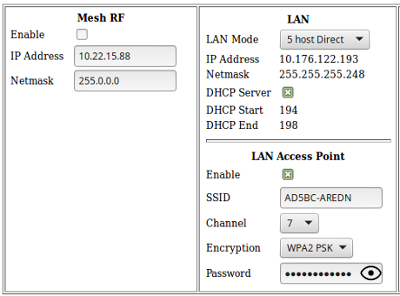
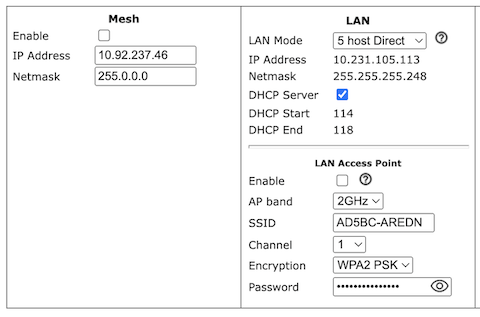
change Mesh RF to Mesh in text and screenshots (#307)

Changed region(s): [[0.0, 0.0, 1.0, 1.0]]

diff --git a/arednGettingStarted/advanced_config.rst b/arednGettingStarted/advanced_config.rst
@@ -36,10 +36,10 @@ You have already configured many of the basic settings, but there are several ad
 
 |
 
-Mesh RF Column
+Mesh Column
 ^^^^^^^^^^^^^^
 
-*Mesh RF* is the node's *radio* interface. The AREDN |trade| firmware has been designed to simplify the process of configuring networking interfaces. Network values are automatically calculated based on the unique :abbr:`MAC (Media Access Control)` addresses of your node. You may need to change the *Channel* and possibly the *Channel Width* parameters to match those of your local AREDN |trade| mesh, as explained previously in the **Basic Radio Setup** section. Normally you will not need to change the other network settings on this page, so keep these values unless you fully understand how the mesh works and why the defaults may not be suitable for your situation.
+**Mesh** is the node's *radio* interface. The AREDN |trade| firmware has been designed to simplify the process of configuring networking interfaces. Network values are automatically calculated based on the unique :abbr:`MAC (Media Access Control)` addresses of your node. You may need to change the *Channel* and possibly the *Channel Width* parameters to match those of your local AREDN |trade| mesh, as explained previously in the **Basic Radio Setup** section. Normally you will not need to change the other network settings on this page, so keep these values unless you fully understand how the mesh works and why the defaults may not be suitable for your situation.
 
 Channel Width Setting
   AREDN |trade| devices have a choice of using 20 MHz, 10 MHz, or 5 MHz channel widths. As a general rule, a larger channel width will allow more data to be transferred, but it can only do this over shorter distances (as will be illustrated in the following section). One suggestion is to start with the largest channel width that yields a *Signal to Noise Ratio* (SNR) of at least 15 dB.
@@ -82,7 +82,7 @@ Configuring LQM Settings
     :alt: LQM Basic Settings
     :align: right
 
-  When *Link Quality Manager* is enabled, the **Basic Setup** page will show a slightly different group of settings for *Power & Link Quality* under the **Mesh RF** column.
+  When *Link Quality Manager* is enabled, the **Basic Setup** page will show a slightly different group of settings for *Power & Link Quality* under the **Mesh** column.
 
   Max Distance
     The maximum distance between nodes at which you can expect to achieve a usable radio link. The default value is 50 miles / 80 kilometers, but you can adjust this setting if your node is only able to maintain a usable radio link with closer nodes. Local conditions may dictate a shorter distance based, for example, on dense tree cover or other terrain features which impact line of sight communication. You can lower this value if you want to limit your node to linking only with nearby nodes.
@@ -95,8 +95,8 @@ Configuring LQM Settings
 
 The **Power & Distance** settings can be adjusted and applied without saving changes or rebooting your node. However, they will return to their original values after a reboot unless you click *Save Changes*.
 
-Enable/Disable Mesh RF
-  You can disable your node's radio interface by deselecting the *Enable* checkbox, saving your changes, and rebooting the node. With the Mesh RF interface disabled the *Power & Distance* settings no longer apply and will be hidden. Since your node now has an unused RF interface, you will notice that a new section appears which allows you to use the node's radio as an FCC Part 15 *LAN Access Point*. You can enable or disable the LAN AP using the *Enable* checkbox. See the details below for configuring the LAN Access Point.
+Enable/Disable Mesh
+  You can disable your node's radio interface by deselecting the *Enable* checkbox, saving your changes, and rebooting the node. With the Mesh interface disabled the *Power & Distance* settings no longer apply and will be hidden. Since your node now has an unused RF interface, you will notice that a new section appears which allows you to use the node's radio as an FCC Part 15 *LAN Access Point*. You can enable or disable the LAN AP using the *Enable* checkbox. See the details below for configuring the LAN Access Point.
 
 .. image:: _images/advConfig-lanAP.png
    :alt: LAN AP Settings
@@ -113,15 +113,15 @@ The default mode is ``5 Host Direct``. In this mode every host on the LAN has di
 
 The mesh address space is automatically managed, so you cannot configure the LAN network settings in *Direct* mode. The only configurable option available in *Direct* mode is the size of the LAN subnet which can accommodate either 1, 5, 13, or 29 LAN hosts. A one host subnet can be used for either a single server or a separate network router using its own NAT which is capable of more advanced routing functions than those available on a mesh node.
 
-It is important not to use a subnet larger than is necessary because the chance of an IP address conflict on the mesh increases with the size of the subnet. The LAN subnet parameters are automatically calculated and depend on the IP address of the *Mesh RF* interface. If a conflict does occur it can be fixed by changing the *Mesh RF* IP address.
+It is important not to use a subnet larger than is necessary because the chance of an IP address conflict on the mesh increases with the size of the subnet. The LAN subnet parameters are automatically calculated and depend on the IP address of the *Mesh* interface. If a conflict does occur it can be fixed by changing the *Mesh* IP address.
 
-The other LAN Mode is ``NAT``, and in this mode the LAN is isolated from the mesh. All outgoing traffic has its source address modified to be the *Mesh RF* IP address of the node. This is the same way that most home routers use an Internet connection, and all services provided by computers on the LAN can only be accessed through port forwarding rules. A single :abbr:`DMZ (DeMilitarized Zone)` server can be used to accept all incoming traffic that is not already handled by other rules or by the node itself.
+The other LAN Mode is ``NAT``, and in this mode the LAN is isolated from the mesh. All outgoing traffic has its source address modified to be the *Mesh* IP address of the node. This is the same way that most home routers use an Internet connection, and all services provided by computers on the LAN can only be accessed through port forwarding rules. A single :abbr:`DMZ (DeMilitarized Zone)` server can be used to accept all incoming traffic that is not already handled by other rules or by the node itself.
 
 By default each node runs a :abbr:`DHCP (Dynamic Host Control Protocol)` server for its LAN interface, which lets the node assign IP addresses automatically for devices connected to the node's local area network. The last octet of the start/end range for host IP addresses is shown in the LAN column. If you choose to disable the DHCP server, you must manually configure the host IP addresses to be within the LAN network range. There should be only one DHCP server for each IP address scope or range, so you may need to disable your node's DHCP server if there is already another device providing DHCP services on your node's local area network. Click this link for additional information on `Dynamic Host Control Protocol <https://en.wikipedia.org/wiki/Dynamic_Host_Configuration_Protocol>`_.
 
 When you connect a device to your node's LAN, not only should it have an IP address in the LAN IP address range, but it is best practice for LAN devices to obtain their DNS Server information *automatically* from the node. Be aware that if a LAN device does not use the DNS Server entry provided by the node to which it is connected, then that device will be unable to resolve hostnames on the mesh network. Also, hard-coding a device's DNS Server entry with the mesh node's IP address could result in unexpected failures if that device is moved to another mesh node or network.
 
-If you enabled the **LAN Access Point** feature mentioned previously, edit the access point's SSID, channel, encryption method, and password. Select an AP channel that is within the range supported by your WiFi client devices. Click *Save Changes* to write your information to the node's configuration, and a node reboot will also be required. Now wireless devices can connect to your node's LAN wirelessly, and their DHCP IP address will be assigned by the node's LAN DHCP server. If your node hardware has more than one unused radio, for example the *Mikrotik hAP ac* family with both 2.4 and 5.8 GHz radios in a single unit, the *LAN Access Point* section will always be visible whether or not your *Mesh RF* interface is enabled.
+If you enabled the **LAN Access Point** feature mentioned previously, edit the access point's SSID, channel, encryption method, and password. Select an AP channel that is within the range supported by your WiFi client devices. Click *Save Changes* to write your information to the node's configuration, and a node reboot will also be required. Now wireless devices can connect to your node's LAN wirelessly, and their DHCP IP address will be assigned by the node's LAN DHCP server. If your node hardware has more than one unused radio, for example the *Mikrotik hAP ac* family with both 2.4 and 5.8 GHz radios in a single unit, the *LAN Access Point* section will always be visible whether or not your *Mesh* interface is enabled.
 
 WAN Column
 ^^^^^^^^^^
@@ -137,7 +137,7 @@ If you are not going to use the WAN interface on your node, you can select *disa
 .. note:: The *Advanced WAN Access* settings have been moved to the **Advanced Configuration** display.
 
 WAN WiFi Client
-  As mentioned above in the *Mesh RF* section, if your node has a radio on which you have *disabled* Mesh RF and you are not using it as a LAN AP, you can enable this available radio as a WAN interface by checking the **WAN Wifi Client** checkbox. Enter the SSID and authentication string for the wifi AP that you want to connect through for Internet access.
+  As mentioned above in the *Mesh* section, if your node has a radio on which you have *disabled* Mesh and you are not using it as a LAN AP, you can enable this available radio as a WAN interface by checking the **WAN Wifi Client** checkbox. Enter the SSID and authentication string for the wifi AP that you want to connect through for Internet access.
 
   The mesh node uses "WPA2 PSK" encryption to connect to the wifi AP. The password length must be between zero and 64 characters. If the key length is 64, it is treated as hex encoded. If the length is 0, then no encryption will be used to connect to an open AP. A single quote character must not be used in the passphrase.
 
@@ -249,7 +249,7 @@ NAT Mode Operation
 
 |
 
-If you are using ``NAT`` for your LAN mode, then hosts on the LAN are isolated from both the Wifi and WAN interfaces by a firewall. This makes them inaccessible from either of these interfaces unless Port Forwarding is configured. In this mode all outgoing LAN traffic has its source address modified to be the Mesh RF IP address of the node. This is the same way that most home routers use an ISP Internet connection.
+If you are using ``NAT`` for your LAN mode, then hosts on the LAN are isolated from both the Wifi and WAN interfaces by a firewall. This makes them inaccessible from either of these interfaces unless Port Forwarding is configured. In this mode all outgoing LAN traffic has its source address modified to be the Mesh IP address of the node. This is the same way that most home routers use an ISP Internet connection.
 
 Port Forwarding
   Port forwarding rules can redirect inbound connections from the Wifi, WAN, or both interfaces and forward them to an IP address and port on the LAN. The destination port need not be the same unless you are forwarding a range of ports as explained below.
@@ -437,7 +437,7 @@ Link Quality Manager (LQM) Settings
 
 |
 
-The basic LQM settings were described above under the **Mesh RF Column**, but additional LQM settings are also available here in the **Advanced Configuration** section.
+The basic LQM settings were described above under the **Mesh Column**, but additional LQM settings are also available here in the **Advanced Configuration** section.
 
 Enable
   Enable or disable the LQM feature in its entirety.
@@ -481,7 +481,7 @@ WAN Settings
 Several WAN access settings can be adjusted in this section. It is recommended that these settings be left at their default values, but specific use cases may require you to change them.
 
 Allow MESH nodes to use my WAN
-  The default value is ``OFF`` and it is recommended that you use this default unless there is a special reason to enable it. Setting the value to ``ON`` will allow this node to route traffic from its MESH RF interface to/from your WAN interface. Since the WAN interface typically provides a gateway to the Internet, it is not desirable to route Internet traffic over your Mesh RF interface. AREDN |trade| is an FCC Part 97 amateur radio network, so be sure that any traffic which will be sent over the radio complies with FCC Part 97 rules. If you want local devices to have wireless Internet access, consider using an FCC Part 15 access point instead of your node's WAN gateway.
+  The default value is ``OFF`` and it is recommended that you use this default unless there is a special reason to enable it. Setting the value to ``ON`` will allow this node to route traffic from its Mesh interface to/from your WAN interface. Since the WAN interface typically provides a gateway to the Internet, it is not desirable to route Internet traffic over your Mesh interface. AREDN |trade| is an FCC Part 97 amateur radio network, so be sure that any traffic which will be sent over the radio complies with FCC Part 97 rules. If you want local devices to have wireless Internet access, consider using an FCC Part 15 access point instead of your node's WAN gateway.
 
   In older firmware releases there was a checkbox on the *Basic Setup* display for this setting. In the past if you checked "Allow others to use my WAN" then here is what your slider would look like in the current firmware:
 
@@ -546,7 +546,7 @@ Tunnel Weight
   This specifies the OLSR route cost of using a tunnel, with the default value set to ``1``. The higher the route cost weight, the less likely a tunnel will be chosen for routing traffic.
 
 Tunnel WAN Only Setting
-  This setting is enabled by default and it prevents tunnel traffic from being routed over the Mesh RF network. It limits tunnels to using the WAN interface, which is typically the intended route. If in your situation you need tunnel traffic to be routed over RF to a node with WAN access, then you can disable this setting to allow that traffic to pass.
+  This setting is enabled by default and it prevents tunnel traffic from being routed over the Mesh network. It limits tunnels to using the WAN interface, which is typically the intended route. If in your situation you need tunnel traffic to be routed over RF to a node with WAN access, then you can disable this setting to allow that traffic to pass.
 
 Memory Thresholds
 ^^^^^^^^^^^^^^^^^

diff --git a/arednHow-toGuides/dish-aiming.rst b/arednHow-toGuides/dish-aiming.rst
@@ -13,7 +13,7 @@ If you can drive to within 1/4 mile of an active node, you should be able to pas
 
 * In your vehicle, power up your node and plug in your laptop. Disable the wifi interface so the laptop gets its IP address from the node. Open a web browser and use *localnode.local.mesh:8080* to load your node's home page. You will need to have your user name (root) and password to authenticate to the *Setup* display.
 
-* Enter the SSID, Channel, and Channel Width that matches the remote node you are surveying. Regarding the "Distance to Farthest Neighbor" setting, refer to the node help page or the *Configuration Deep Dive > Mesh RF Column > Distance Setting* section in the **Getting Started Guide** for information. On short paths the zero-distance (automatic setting) may not work well, so you should adjust the slider to a setting close to the estimated distance between your nodes. If you changed any of these settings, click ``Save Changes`` followed by ``Reboot``.
+* Enter the SSID, Channel, and Channel Width that matches the remote node you are surveying. Regarding the "Distance to Farthest Neighbor" setting, refer to the node help page or the *Configuration Deep Dive > Mesh Column > Distance Setting* section in the **Getting Started Guide** for information. On short paths the zero-distance (automatic setting) may not work well, so you should adjust the slider to a setting close to the estimated distance between your nodes. If you changed any of these settings, click ``Save Changes`` followed by ``Reboot``.
 
 * Now you can do a ``WiFi Scan`` from your node's home page. Put the scan on ``Auto`` refresh and the screen will refresh the scan every ten seconds. The scan list will show remote nodes along with their signal strength, channel number, and SSID. If you have chosen the correct SSID and channel, you should see a connected status if the signal is -87 or stronger. If the channel or SSID doesn't match, you will see a "foreign network" status. There may be other devices on different channels at a particular location. Pick the strongest one and use that channel.
 

diff --git a/arednHow-toGuides/home-router-connection.rst b/arednHow-toGuides/home-router-connection.rst
@@ -10,4 +10,4 @@ There are several indoor AREDN |trade| nodes that have more than one Ethernet po
 
 When you connect the node's WAN port to one of the LAN ports on your home router, the node's WAN should receive an IP address on your home network from the router's `DHCP <https://en.wikipedia.org/wiki/Dynamic_Host_Configuration_Protocol>`_ server. Alternatively you can reserve an IP address in your home network range and assign the static IP to the node's WAN through the **Basic Settings** page on your node. There are many sources of information about basic `home networking <https://en.wikipedia.org/wiki/Home_network>`_ which will not be duplicated here, but feel free to familiarize yourself with IP networking through reading and research.
 
-Once you have connected your node to your home router, Internet access will be available to the node itself as well as to any of the devices connected to the node's LAN network. It is not recommended to allow Internet access through your node from other Mesh RF connected nodes, therefore be sure to leave *"Allow others to use my WAN"* unchecked. If you do not want any of your node's LAN connected devices to access the Internet either, you can check *"Prevent LAN devices from accessing WAN"*.
+Once you have connected your node to your home router, Internet access will be available to the node itself as well as to any of the devices connected to the node's LAN network. It is not recommended to allow Internet access through your node from other Mesh connected nodes, therefore be sure to leave *"Allow others to use my WAN"* unchecked. If you do not want any of your node's LAN connected devices to access the Internet either, you can check *"Prevent LAN devices from accessing WAN"*.

diff --git a/arednGettingStarted/node_status.rst b/arednGettingStarted/node_status.rst
@@ -36,7 +36,7 @@ Select Theme
 Node Settings Summary
 ---------------------
 
-The area under the control buttons shows both configuration and network status information. The left column contains the IP address and gateway details for the network interfaces on this node, as well as the SSID, channel, and channel width settings if Mesh RF is enabled. If WAN Wifi Client is enabled it will also show the SSID and signal strength to the connected Access Point. If LAN AP is enabled then the LAN AP SSID will also be displayed.
+The area under the control buttons shows both configuration and network status information. The left column contains the IP address and gateway details for the network interfaces on this node, as well as the SSID, channel, and channel width settings if Mesh is enabled. If WAN Wifi Client is enabled it will also show the SSID and signal strength to the connected Access Point. If LAN AP is enabled then the LAN AP SSID will also be displayed.
 
 The right column contains the Signal Strength readings and other attributes of your node. The **signal / noise / ratio** shows the strongest neighbor signal strength in :abbr:`dBm (decibels relative to one milliwatt)` from all connected stations, and it is available only when the node is connected to a neighbor node via :abbr:`RF (Radio Frequency)`. Click these links for further information about `Signal to Noise Ratio <https://en.wikipedia.org/wiki/Signal-to-noise_ratio>`_ and values measured in `decibels <https://en.wikipedia.org/wiki/Decibel>`_. There are many factors that impact the network throughput you can expect to achieve, but as a general rule the higher the Signal-to-Noise ratio the better the throughput for your RF links.
 

diff --git a/arednGettingStarted/basic_setup.rst b/arednGettingStarted/basic_setup.rst
@@ -40,13 +40,13 @@ Password
 Node Description
   This is not a required field, but it is a good place to describe the features or function of this device. Many operators use this field to list their contact information, the radio model and antenna specifications, or the tactical purpose for the node. There are no character restrictions in the field, but the maximum length allowed is 210 characters.
 
-Mesh RF
+Mesh
   The *IP Address, Netmask, and SSID* fields are automatically calculated for you based on the unique :abbr:`MAC (Media Access Control)` address of your node. Do not change these settings. Everything under the **LAN** and **WAN** columns can be left unchanged for now.
 
 Channel and Channel Width
   Nodes communicate only with other nodes that use the same SSID, channel and channel width. You can determine the correct settings by talking with other local node operators to find out which settings are required for joining their networks.
 
-See the **Configuration Deep Dive** section for more information about these and other settings in the *Mesh RF* column.
+See the **Configuration Deep Dive** section for more information about these and other settings in the *Mesh* column.
 
 Power & Distance Settings
   If you have *Link Quality Manager* disabled, you will see the *Power & Distance* settings.

diff --git a/arednHow-toGuides/devtools.rst b/arednHow-toGuides/devtools.rst
@@ -20,7 +20,7 @@ The following information is always returned in the JSON data stream:
 - *Node Details* section containing the firmware manufacturer and version, the radio model and board ID, WAN sharing status, and the node description text (if any)
 - *Sysinfo* section containing node uptime and load averages for the last one, five, and fifteen minutes
 - *Interfaces* section containing the name, MAC address, and IP address (if any) assigned to each of the node's network interfaces
-- *Mesh RF* section containing the SSID, channel, center frequency, channel width, and status of the mesh radio
+- *Mesh* section containing the SSID, channel, center frequency, channel width, and status of the mesh radio
 - *Tunnels* section showing whether the tunnel package is installed and the number of active tunnels (if any)
 
 The values returned by the API are represented in the following snippet of raw JSON. This is only a sample of the full data stream containing all of the values described above.
